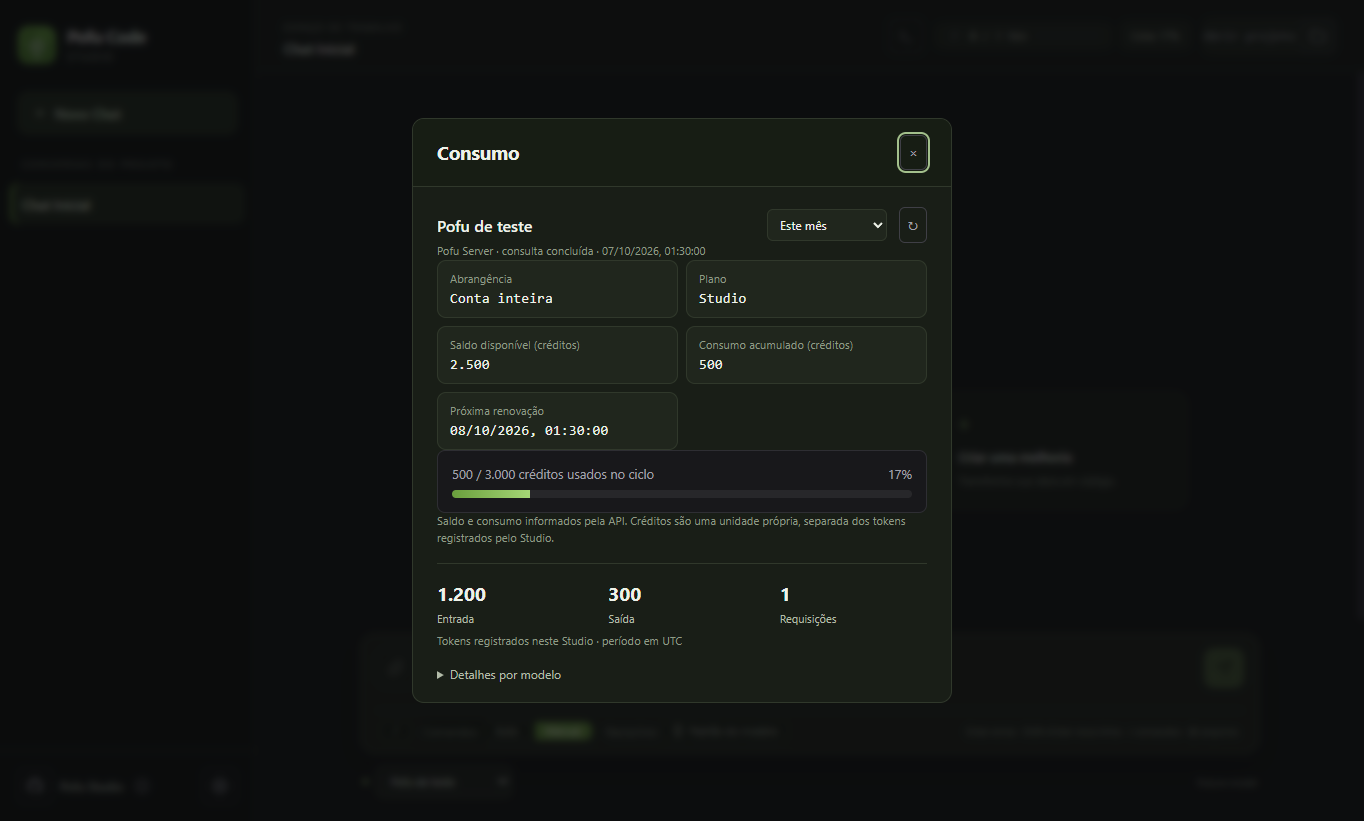
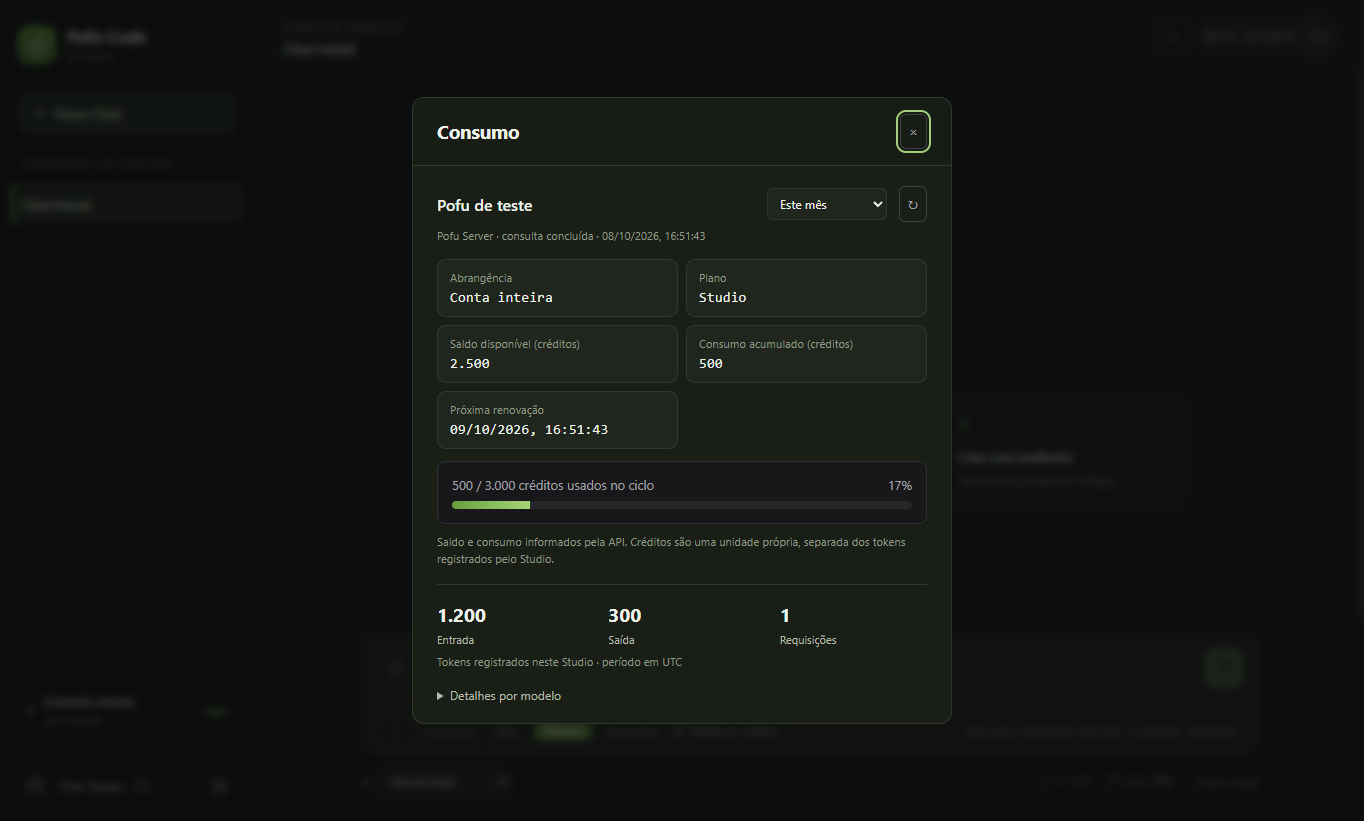
fix: espaçamento da barra de créditos no modal de consumo

diff --git a/assets/studio.css b/assets/studio.css
@@ -249,6 +249,9 @@ input[type="range"] { accent-color: var(--accent); }
 #consumption-period { width: auto; max-width: 160px; font-size: 12px; padding: 6px 8px; background: var(--surface-2); border: 1px solid var(--border); color: var(--text); border-radius: 6px; }
 #consumption-body .info-grid { grid-template-columns: repeat(2, minmax(0, 1fr)); gap: 8px; }
 #consumption-body .info-card { min-width: 0; padding: 10px 12px; }
+#consumption-status { margin: 6px 0 14px; }
+#consumption-cycle { margin-top: 12px; }
+#consumption-remote-note { margin-top: 10px; }
 .consumption-local { display: flex; gap: 24px; padding: 16px 0 6px; border-top: 1px solid var(--border); margin-top: 16px; }
 .consumption-local div { flex: 1; min-width: 0; }
 .consumption-local strong { display: block; font-size: 19px; font-variant-numeric: tabular-nums; }
